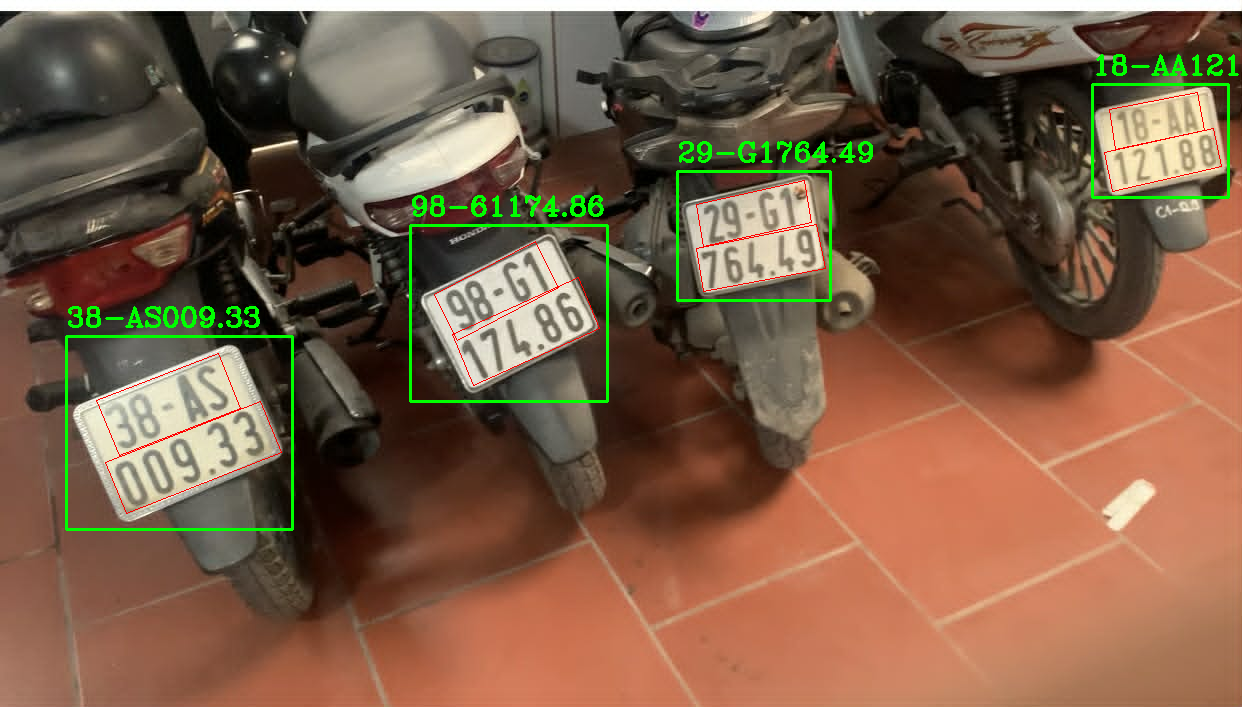
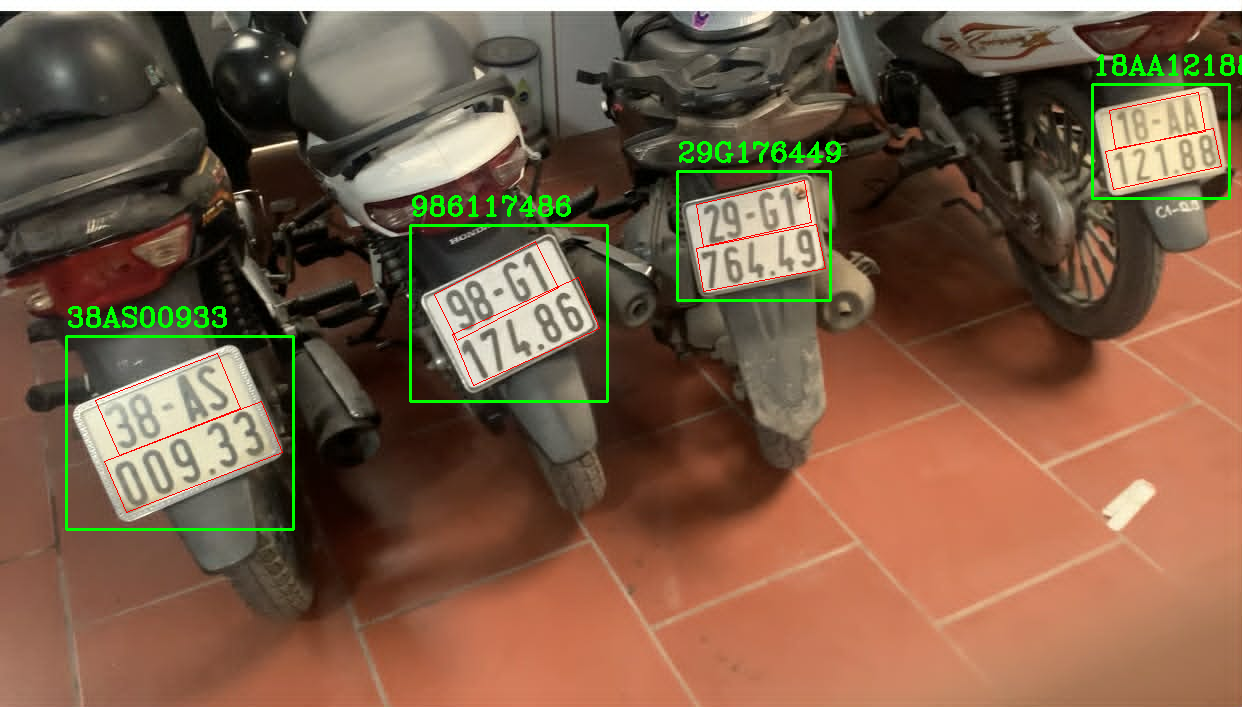
update 09-05-2026

diff --git a/SourceCode/cam.py b/SourceCode/cam.py
@@ -1,56 +1,120 @@
+import os
+
+import numpy as np
+import onnxruntime as ort
 import cv2
-from ultralytics import YOLO
-from paddleocr import PaddleOCR
 import imageio
+
 from preprocessing import get_plate_corners, perspective_transform, preprocess_plate
-from postprocessing import process_ocr_results, extract_with_score, stable_results
+from postprocessing import process_ocr_results, extract_with_score, stable_results, clean_text
+from function.onnx_utils import (load_chars, letterbox,
+                                 detect_plate, get_boxes_from_map,
+                                 box_to_center, preprocess_rec, ctc_decode)
+import supervision as sv
 
-model = YOLO("model/best_pl_detection.pt")
-ocr = PaddleOCR(use_textline_orientation=True, lang='en')
+YOLO_MODEL = "model/best_pl_detecton.onnx"
+PP_DET_MODEL = "model/ppocr_det_sim.onnx"
+PP_REC_MODEL = "model/ppocr_rec_sim.onnx"
+DICT_PATH = "en_dict.txt"
+VIDEO_PATH = "samples/IMG_6917.MOV"
+OUTPUT_DIR = "results"
+os.makedirs(OUTPUT_DIR, exist_ok=True)
 
-cap = cv2.VideoCapture("samples/IMG_6917.MOV")
-frames = []
-results = None
-count = 0
+providers = ["CPUExecutionProvider"]
+session_yolo = ort.InferenceSession(YOLO_MODEL, providers=providers)
+session_det = ort.InferenceSession(PP_DET_MODEL, providers=providers)
+session_rec = ort.InferenceSession(PP_REC_MODEL, providers=providers)
+CHARS = load_chars(DICT_PATH)
 
-while cap.isOpened():
-    ret, frame = cap.read()
-    if not ret:
-        break
-    if count % 3 == 0 or results is None:
-        results = model.track(frame, conf=0.6, persist=True, verbose=False)
-    for r in results:
-        if r.boxes is None:
-            continue
-        boxes = r.boxes.xyxy.cpu().numpy()
-        ids = r.boxes.id.cpu().numpy() if r.boxes.id is not None else [None]*len(boxes)
-        for box, track_id in zip(boxes, ids):
-            if track_id is None:
-                continue
-            x1, y1, x2, y2 = map(int, box)
-            crop = frame[max(0,y1-10):y2+10, max(0,x1-10):x2+10]
-            plate_text = ""
-            if crop.size > 0:
-                corners = get_plate_corners(crop)
-                warped = perspective_transform(crop, corners)
-                if warped.shape[0] < 20 or warped.shape[1] < 60:
-                    continue
-                th, inv = preprocess_plate(warped)
-                res = ocr.predict(cv2.cvtColor(th, cv2.COLOR_GRAY2BGR))
-                text, score = extract_with_score(res)
+def process_video(video_path):
+    tracker = sv.ByteTrack()
+    results_cache = {}
 
-                if score < 0.6:
-                    res = ocr.ocr(cv2.cvtColor(inv, cv2.COLOR_GRAY2BGR))
-                plate_text = process_ocr_results(res, track_id)
-            cv2.rectangle(frame, (x1,y1),(x2,y2),(0,255,0),2)
-            if plate_text:
-                cv2.putText(frame, plate_text, (x1,y1-10),
-                            cv2.FONT_HERSHEY_SIMPLEX, 1.5, (0,255,0),2)
-            print(plate_text)
-    frame_display = cv2.resize(frame, (640,360))
-    if len(frames) < 300:
-        frames.append(cv2.cvtColor(frame_display, cv2.COLOR_BGR2RGB))
-    count += 1
-imageio.mimsave("plate_recognition_video.gif", frames, fps=15)
-cap.release()
-cv2.destroyAllWindows()
+    cap = cv2.VideoCapture(video_path)
+    width = int(cap.get(cv2.CAP_PROP_FRAME_WIDTH))
+    height = int(cap.get(cv2.CAP_PROP_FRAME_HEIGHT))
+    fps = cap.get(cv2.CAP_PROP_FPS)
+    output_path = "results/output_result.mp4"
+
+    fourcc = cv2.VideoWriter_fourcc(*"avc1")
+    out = cv2.VideoWriter(output_path, fourcc, fps, (width, height))
+    detections = sv.Detections.empty()
+    count = 0
+
+    while cap.isOpened():
+        ret, frame = cap.read()
+        if not ret:
+            break
+        if count % 5 == 0:
+            img_raw = frame.copy()
+            img_lb, ratio, pad = letterbox(img_raw)
+            blob = cv2.cvtColor(img_lb, cv2.COLOR_BGR2RGB)
+            blob = blob.transpose(2, 0, 1)
+            blob = np.expand_dims(blob, axis=0).astype(np.float32) / 255.0
+            outputs = session_yolo.run(None, {session_yolo.get_inputs()[0].name: blob})
+            raw_boxes = detect_plate(outputs, img_raw, ratio, pad)
+
+            if raw_boxes is not None and len(raw_boxes) > 0:
+                detections = sv.Detections(
+                    xyxy=np.array([b[:4] for b in raw_boxes], dtype=np.float32),
+                    confidence=np.array([b[4] for b in raw_boxes], dtype=np.float32),
+                    class_id=np.zeros(len(raw_boxes), dtype=int)
+                )
+                detections = tracker.update_with_detections(detections)
+            else: detections = sv.Detections.empty()
+
+        for i in range(len(detections)):
+            coords = detections.xyxy[i].astype(int)
+            conf_now = detections.confidence[i]
+            track_id = detections.tracker_id[i] if detections.tracker_id is not None else None
+            x1, y1, x2, y2 = coords
+            w, h = x2 - x1, y2 - y1
+            cached_data = results_cache.get(track_id, {"text": "", "score": 0.0})
+            full_plate_text = cached_data["text"]
+            if not full_plate_text or conf_now > cached_data["score"]:
+                h_img, w_img = img_raw.shape[:2]
+                pad_w = int(w * 0.05)
+                pad_h = int(h * 0.05)
+                x1_pad = max(0, x1 - pad_w)
+                y1_pad = max(0, y1 - pad_h)
+                x2_pad = min(w_img, x2 + pad_w)
+                y2_pad = min(h_img, y2 + pad_h)
+                crop = img_raw[y1_pad:y2_pad, x1_pad:x2_pad]
+
+                if crop.size > 0:
+                    h_p, w_p = crop.shape[:2]
+                    p_det_in = cv2.resize(crop, (int(np.ceil(w_p / 32) * 32), int(np.ceil(h_p / 32) * 32)))
+                    blob_det = p_det_in.transpose(2, 0, 1)[np.newaxis, ...].astype(np.float32) / 255.0
+                    det_outs = session_det.run(None, {session_det.get_inputs()[0].name: blob_det})[0]
+                    text_boxes = get_boxes_from_map(det_outs)
+                    text_boxes = sorted(text_boxes, key=lambda b: (box_to_center(b)[1] // 10, box_to_center(b)[0]))
+
+                    temp_text = ""
+                    for t_box in text_boxes:
+                        pts = t_box.astype(np.float32)
+                        pts[:, 0] *= (w_p / p_det_in.shape[1])
+                        pts[:, 1] *= (h_p / p_det_in.shape[0])
+
+                        bx, by, bw, bh = cv2.boundingRect(pts)
+                        char_crop = crop[max(0, by):min(h_p, by + bh), max(0, bx):min(w_p, bx + bw)]
+                        if char_crop.size == 0: continue
+
+                        rec_in = preprocess_rec(char_crop)
+                        if rec_in is not None:
+                            preds_rec = session_rec.run(None, {session_rec.get_inputs()[0].name: rec_in})[0]
+                            text = ctc_decode(preds_rec, CHARS)
+                            temp_text += text
+                    new_text = clean_text(temp_text)
+                    if len(new_text) > 5:
+                        results_cache[track_id] = {"text": new_text, "score": conf_now}
+                        full_plate_text = new_text
+            cv2.rectangle(frame, (x1, y1), (x2, y2), (0, 255, 0), 2)
+            if full_plate_text:
+                cv2.putText(frame, full_plate_text, (x1, y1 - 10),
+                            cv2.FONT_HERSHEY_SIMPLEX, 1.5, (0, 255, 0), 2)
+
+        out.write(frame)
+        count += 1
+    cap.release()
+    out.release()
+    return output_path

diff --git a/SourceCode/img.py b/SourceCode/img.py
@@ -5,12 +5,11 @@ import onnxruntime as ort
 from function.onnx_utils import (load_chars, letterbox,
                                  detect_plate, get_boxes_from_map,
                                  box_to_center, preprocess_rec, ctc_decode)
-
+from postprocessing import clean_text
 YOLO_MODEL = "model/best_pl_detecton.onnx"
 PP_DET_MODEL = "model/ppocr_det_sim.onnx"
 PP_REC_MODEL = "model/ppocr_rec_sim.onnx"
 DICT_PATH = "en_dict.txt"
-IMAGE_PATH = "samples/img_1.png"
 OUTPUT_DIR = "results"
 os.makedirs(OUTPUT_DIR, exist_ok=True)
 
@@ -20,52 +19,60 @@ session_det = ort.InferenceSession(PP_DET_MODEL, providers=providers)
 session_rec = ort.InferenceSession(PP_REC_MODEL, providers=providers)
 CHARS = load_chars(DICT_PATH)
 
-img = cv2.imread(IMAGE_PATH)
-img_raw = img.copy()
-img_lb, ratio, pad = letterbox(img_raw)
-blob = cv2.cvtColor(img_lb, cv2.COLOR_BGR2RGB)
-blob = blob.transpose(2, 0, 1)
-blob = np.expand_dims(blob, axis=0).astype(np.float32) / 255.0
-outputs = session_yolo.run(None, {session_yolo.get_inputs()[0].name: blob})
-plate_boxes = detect_plate(outputs, img_raw, ratio, pad)
-for box in plate_boxes:
-    x, y, w, h = map(int, box)
-    h_img, w_img = img_raw.shape[:2]
-    pad_w = int(w * 0.05)
-    pad_h = int(h * 0.05)
-    x1_pad = max(0, x - pad_w)
-    y1_pad = max(0, y - pad_h)
-    x2_pad = min(w_img, x + w + pad_w)
-    y2_pad = min(h_img, y + h + pad_h)
-    crop = img_raw[y1_pad:y2_pad, x1_pad:x2_pad]
+def process_image(image):
+        image = cv2.cvtColor(image,cv2.COLOR_RGB2BGR)
+        img = image.copy()
+        img_raw = img.copy()
+        img_lb, ratio, pad = letterbox(img_raw)
+        blob = cv2.cvtColor(img_lb, cv2.COLOR_BGR2RGB)
+        blob = blob.transpose(2, 0, 1)
+        blob = np.expand_dims(blob, axis=0).astype(np.float32) / 255.0
+        outputs = session_yolo.run(None, {session_yolo.get_inputs()[0].name: blob})
+        plate_boxes = detect_plate(outputs, img_raw, ratio, pad)
+        plate_texts = []
+        for box in plate_boxes:
 
-    h_p, w_p = crop.shape[:2]
-    p_det_in = cv2.resize(crop, (int(np.ceil(w_p/32)*32), int(np.ceil(h_p/32)*32)))
-    blob_det = p_det_in.transpose(2, 0, 1)[np.newaxis, ...].astype(np.float32) / 255.0
-    det_outs = session_det.run(None, {session_det.get_inputs()[0].name: blob_det})[0]
-    text_boxes = get_boxes_from_map(det_outs)
-    text_boxes = sorted(text_boxes, key=lambda b: (box_to_center(b)[1] // 10, box_to_center(b)[0]))
+            x1, y1, x2, y2 = map(int, box[:4])
+            w, h = x2 - x1, y2 - y1
+            h_img, w_img = img_raw.shape[:2]
+            pad_w = int(w * 0.05)
+            pad_h = int(h * 0.05)
+            x1_pad = max(0, x1 - pad_w)
+            y1_pad = max(0, y1 - pad_h)
+            x2_pad = min(w_img, x2 + pad_w)
+            y2_pad = min(h_img, y2 + pad_h)
+            crop = img_raw[y1_pad:y2_pad, x1_pad:x2_pad]
+            h_p, w_p = crop.shape[:2]
+            p_det_in = cv2.resize(crop, (int(np.ceil(w_p/32)*32), int(np.ceil(h_p/32)*32)))
+            blob_det = p_det_in.transpose(2, 0, 1)[np.newaxis, ...].astype(np.float32) / 255.0
+            det_outs = session_det.run(None, {session_det.get_inputs()[0].name: blob_det})[0]
+            text_boxes = get_boxes_from_map(det_outs)
+            text_boxes = sorted(text_boxes, key=lambda b: (box_to_center(b)[1] // 10, box_to_center(b)[0]))
 
-    full_plate_text = ""
-    for box in text_boxes:
-        pts = box.astype(np.float32)
-        pts[:, 0] *= (w_p / p_det_in.shape[1])
-        pts[:, 1] *= (h_p / p_det_in.shape[0])
-        pts_on_orig = pts.copy()
-        pts_on_orig[:, 0] += x1_pad
-        pts_on_orig[:, 1] += y1_pad
-        cv2.polylines(img, [pts_on_orig.astype(np.int32)], True, (0, 0, 255), 1)
-        bx, by, bw, bh = cv2.boundingRect(pts)
-        char_crop = crop[max(0, by):min(h_p, by + bh), max(0, bx):min(w_p, bx + bw)]
-        if char_crop.size == 0: continue
+            full_plate_text = ""
+            for box in text_boxes:
+                pts = box.astype(np.float32)
+                pts[:, 0] *= (w_p / p_det_in.shape[1])
+                pts[:, 1] *= (h_p / p_det_in.shape[0])
+                pts_on_orig = pts.copy()
+                pts_on_orig[:, 0] += x1_pad
+                pts_on_orig[:, 1] += y1_pad
+                cv2.polylines(img, [pts_on_orig.astype(np.int32)], True, (0, 0, 255), 1)
+                bx, by, bw, bh = cv2.boundingRect(pts)
+                char_crop = crop[max(0, by):min(h_p, by + bh), max(0, bx):min(w_p, bx + bw)]
+                if char_crop.size == 0: continue
 
-        rec_in = preprocess_rec(char_crop)
-        if rec_in is not None:
-            preds_rec = session_rec.run(None, {session_rec.get_inputs()[0].name: rec_in})[0]
-            text = ctc_decode(preds_rec, CHARS)
-            full_plate_text += text
+                rec_in = preprocess_rec(char_crop)
+                if rec_in is not None:
+                    preds_rec = session_rec.run(None, {session_rec.get_inputs()[0].name: rec_in})[0]
+                    text = ctc_decode(preds_rec, CHARS)
+                    full_plate_text += text
+                    full_plate_text = clean_text(full_plate_text)
 
-    cv2.rectangle(img, (x, y), (x + w, y + h), (0, 255, 0), 2)
-    cv2.putText(img, full_plate_text, (x, y - 10), cv2.FONT_HERSHEY_COMPLEX, 0.9, (0, 255, 0), 2)
-    output_path = os.path.join(OUTPUT_DIR, "pl_recognition_1.png")
-    cv2.imwrite(output_path, img)
+            cv2.rectangle(img, (x1, y1), (x2, y2), (0, 255, 0), 2)
+            cv2.putText(img, full_plate_text, (x1, y1 - 10), cv2.FONT_HERSHEY_COMPLEX, 0.9, (0, 255, 0), 2)
+            plate_texts.append(full_plate_text)
+            output_path = os.path.join(OUTPUT_DIR, "pl_recognition_1.png")
+            cv2.imwrite(output_path, img)
+        img = cv2.cvtColor(img, cv2.COLOR_BGR2RGB)
+        return img, "\n".join(plate_texts)

diff --git a/SourceCode/function/onnx_utils.py b/SourceCode/function/onnx_utils.py
@@ -28,20 +28,23 @@ def detect_plate(outputs, img, ratio, pad, conf_thres=0.5, nms_thres=0.4):
         return None
     dw, dh = pad
     all_boxes = []
-    for row in boxes_raw:
+    all_scores = []
+    for i, row in enumerate(boxes_raw):
         x, y, w, h = row
-        left = int((x - w / 2 - dw) / ratio)
-        top = int((y - h / 2 - dh) /ratio)
-        width = int(w / ratio)
-        height = int(h / ratio)
-        all_boxes.append([left, top, width, height])
+        x1 = int((x - w / 2 - dw) / ratio)
+        y1 = int((y - h / 2 - dh) /ratio)
+        x2 = int((x + w / 2 - dw) / ratio)
+        y2 = int((y + h / 2 - dh) / ratio)
+        all_boxes.append([x1, y1, x2, y2])
+        all_scores.append(scores[i])
 
     indices = cv2.dnn.NMSBoxes(all_boxes, scores.tolist(), conf_thres, nms_thres)
-    results_boxes = []
+    final_detections = []
     if len(indices) > 0:
         for i in indices.flatten():
-            results_boxes.append(all_boxes[i])
-    return results_boxes
+            res = all_boxes[i] + [all_scores[i]]
+            final_detections.append(res)
+    return final_detections
 
 def preprocess_rec(img, imgH=48, imgW=320):
     h, w = img.shape[:2]
@@ -62,6 +65,10 @@ def load_chars(dict_path):
 
 def unclip(box, unclip_ratio=1.5):
     poly = Polygon(box)
+    if poly.length == 0:
+        return np.array([])
+    if poly.area == 0:
+        return np.array([])
     distance = poly.area * unclip_ratio / poly.length
     offset = pyclipper.PyclipperOffset()
     box_list = box.astype(np.intp).tolist()
@@ -93,6 +100,8 @@ def get_boxes_from_map(pred, thresh=0.3, box_thresh=0.5, unclip_ratio=1.5):
         if box_score < box_thresh:
             continue
         box = unclip(box, unclip_ratio)
+        if len(box) == 0:
+            continue
         box[:, 0] = np.clip(box[:, 0], 0, w)
         box[:, 1] = np.clip(box[:, 1], 0, h)
         boxes.append(box.astype(np.int32))

diff --git a/SourceCode/postprocessing.py b/SourceCode/postprocessing.py
@@ -1,4 +1,5 @@
 import re
+import numpy as np
 
 def clean_text(text):
     if not text:
@@ -6,8 +7,6 @@ def clean_text(text):
     text = text.upper()
     text = re.sub(r'[^A-Z0-9\n]', '', text)
     return text.strip()
-
-import numpy as np
 
 def extract_lines(res):
     if not res or not res[0]:
